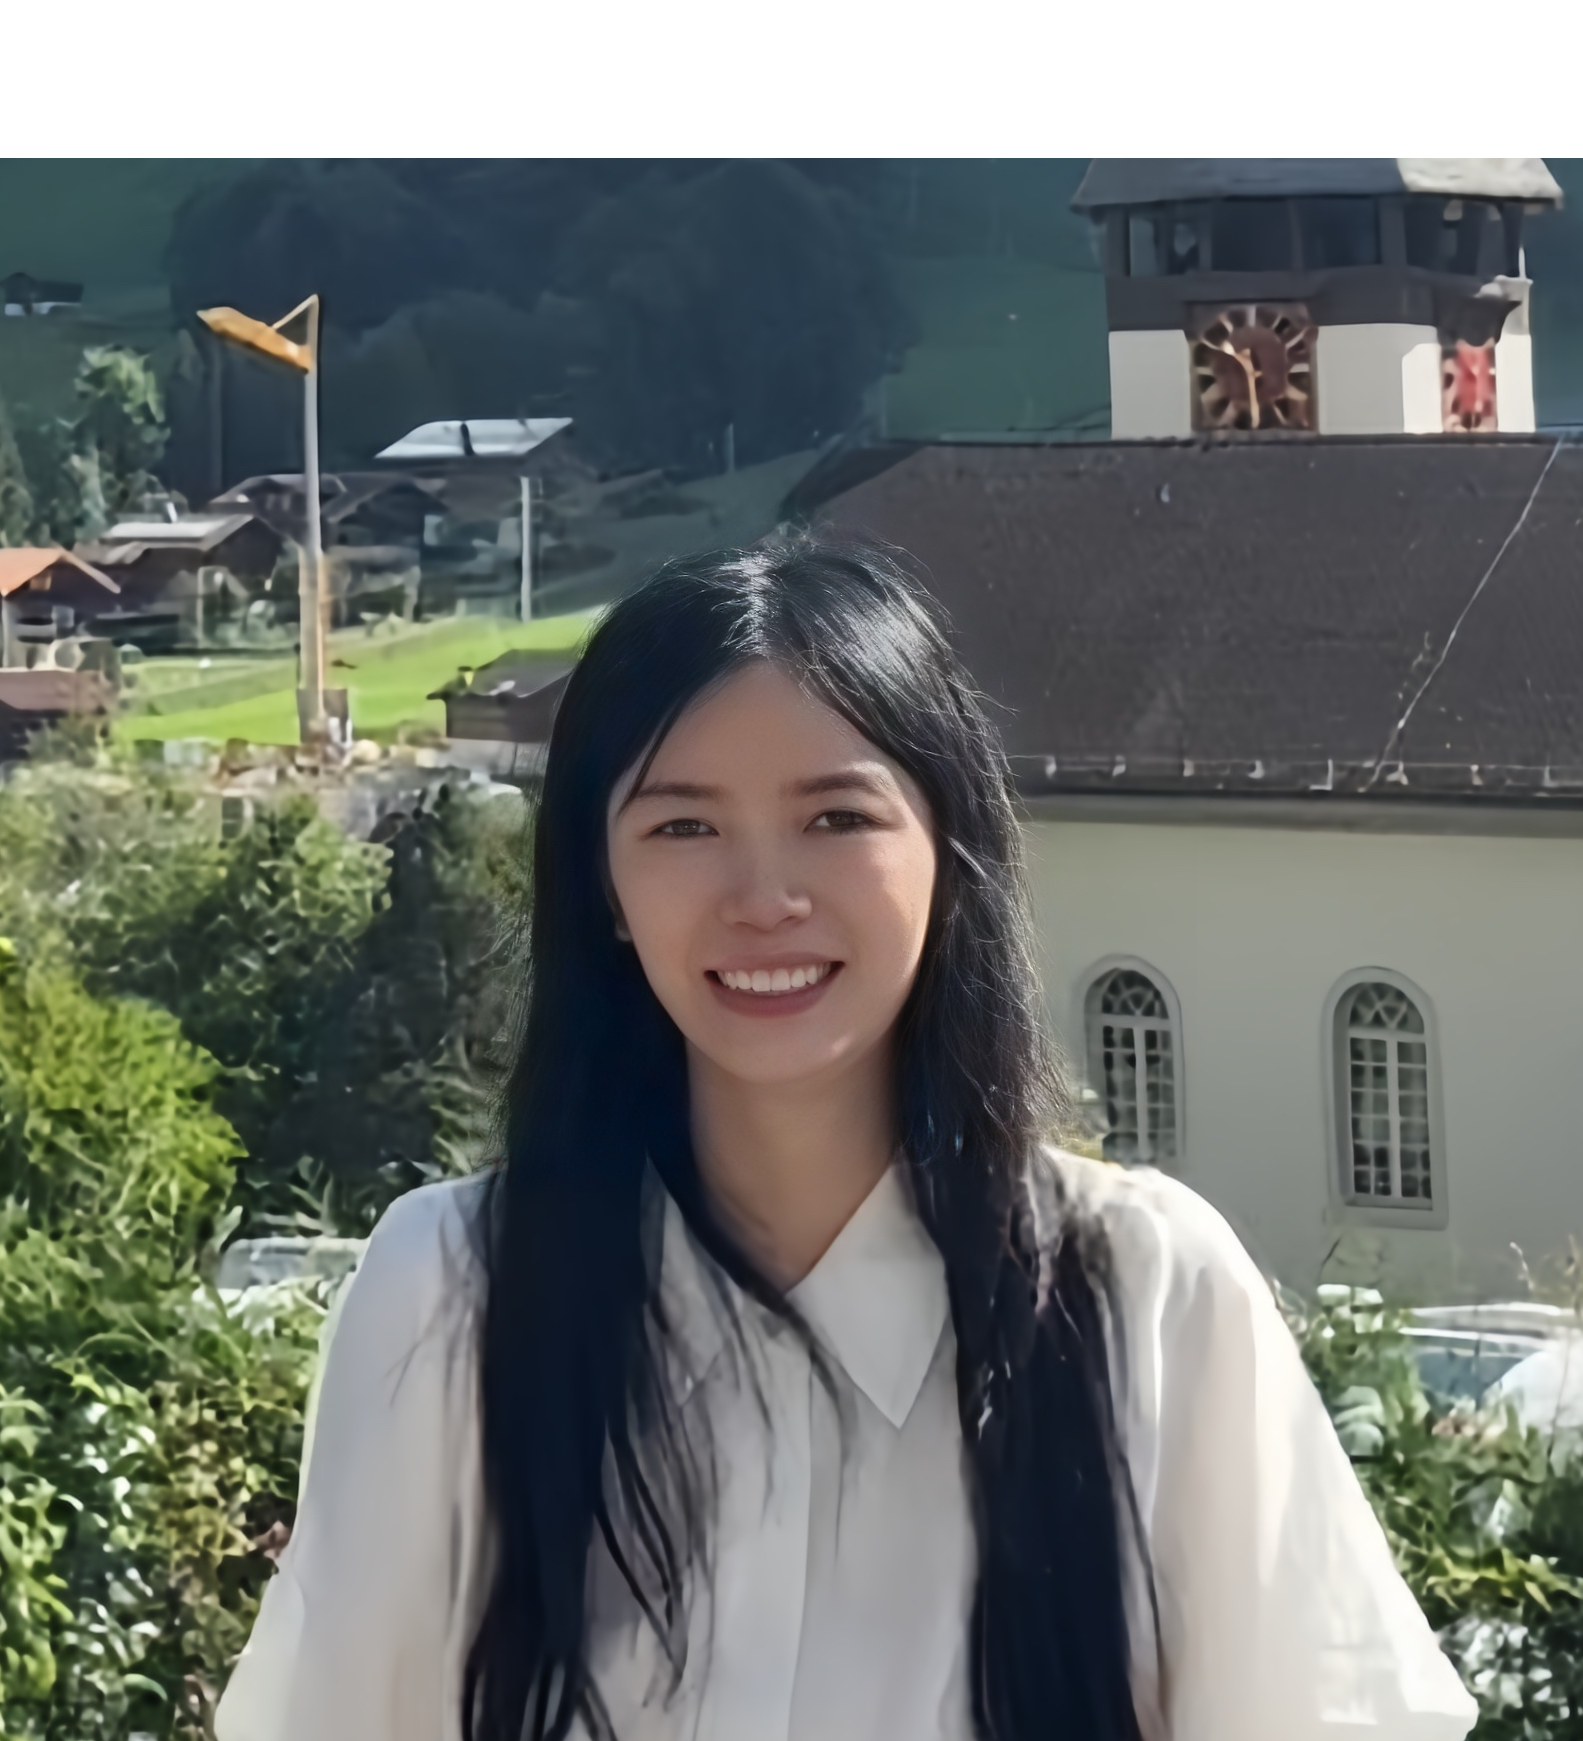
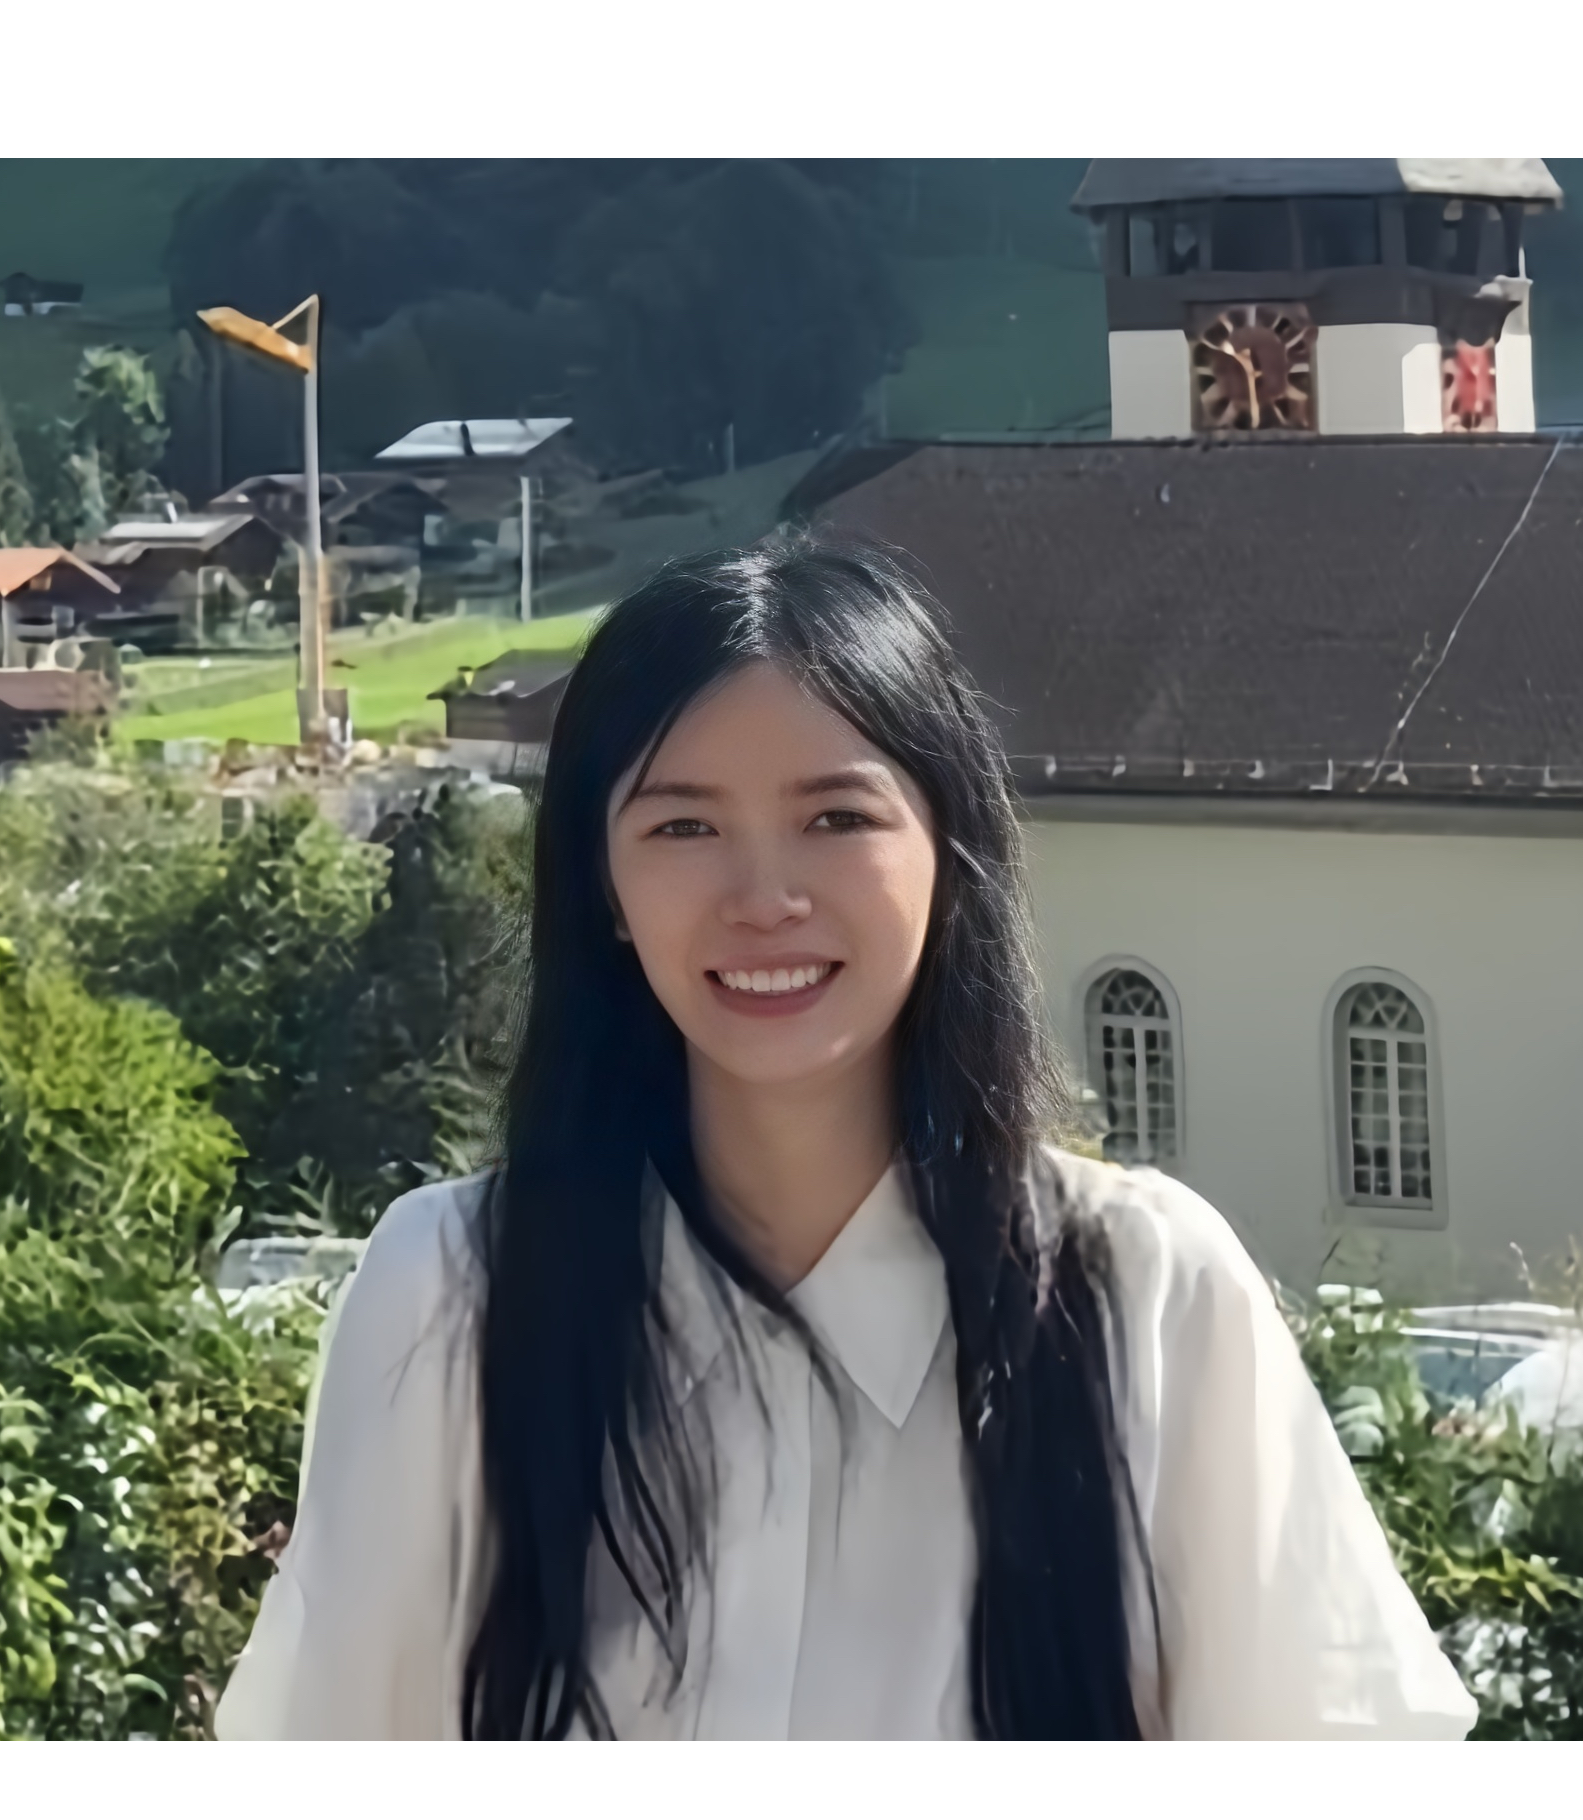
update

diff --git a/_includes/photo-yazhang.html b/_includes/photo-yazhang.html
@@ -3,7 +3,7 @@
       .wrappost{
         margin: 0 auto;
         width: 200px;
-        height: 220px;
+        height: 230px;
         background-color: white;
         overflow: hidden;
       }
